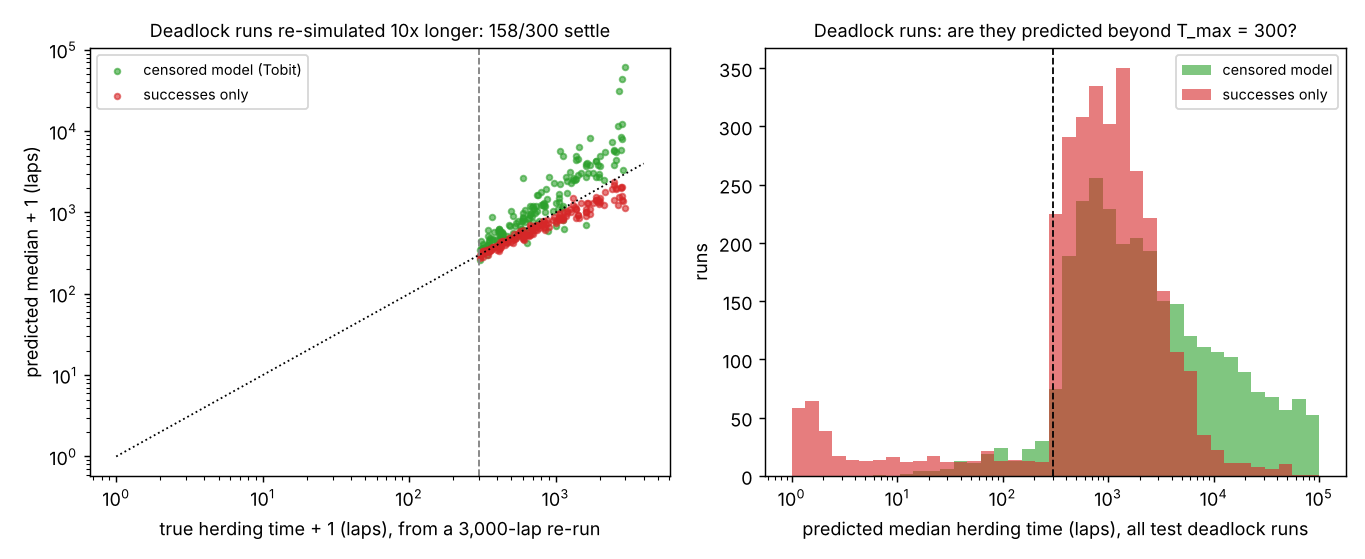
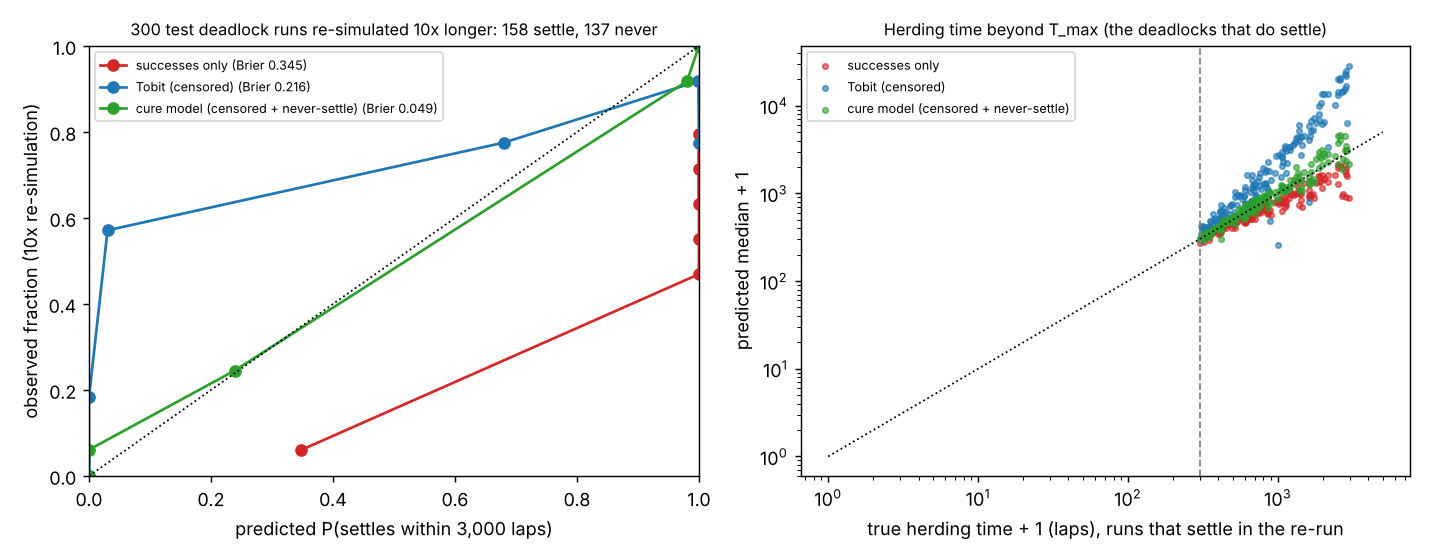
Censored herding time: kernel mixture-cure model separates slow from stuck herds (AUC 0.98 on 10x re-simulation)
Claude-Session: https://claude.ai/code/session_01GFa46iTYsWFUdyGmf1m55y

diff --git a/results/censored/README.md b/results/censored/README.md
@@ -1,0 +1,43 @@
+# Herding time with censoring: slow vs stuck herds
+
+Code: `models/censored_time.py`. Numbers [measured]: `metrics.json`. Figure: `censored.png`. Re-simulations: `resim.npz`.
+
+## Problem
+Deadlock runs were stopped at T_max = 300 laps; we only know "time > 300" (right-censored). Dropping them (Phase 3)
+biases the time model; and "deadlock" may hide two kinds of runs: slow ones and ones that never settle.
+
+## Models (all share one kernel function class: random Fourier features (1,000) of the Phase 3 GP kernel; MAP fit)
+- **successes only**: log-normal time on settled runs (deadlocks dropped).
+- **Tobit**: log-normal time; deadlocks contribute P(time > 300).
+- **mixture cure** (ours, kernel version of Farewell 1982): P(the run ever settles) = sigmoid(g(x)), a kernel logistic
+  model; if it settles, log-normal time. Deadlocks contribute (1 - pi) + pi * P(time > 300).
+Prior scale chosen on a validation split (for Tobit and cure the best was the largest value tried, x30).
+
+## Test set (settled + deadlock test runs of the arXiv law)
+
+| | successes only | Tobit | **cure** |
+|---|---|---|---|
+| test log-likelihood per run (higher better) | -24.05 | -0.27 | **+0.37** |
+| time-dependent concordance (Antolini) | 0.943 | 0.979 | **0.992** |
+| settled runs: median error (laps) | 0.72 | 1.95 | **0.69** |
+| settled runs: 90 % band coverage | 0.917 | 0.947 | 0.916 |
+| deadlock runs: mean P(time > 300) (should be high) | 0.83 | 0.95 | **0.98** |
+
+## The real check: 300 test deadlock runs re-simulated 10x longer (3,000 laps)
+Result: 158 settle, 137 still do not settle, 5 lose an evader. None of this is in the training data (which stops at 300).
+
+| | Brier, "settles by 3,000" (lower better) | AUC | mean predicted P (observed 0.536) | settled: median ratio error | 90 % band coverage |
+|---|---|---|---|---|---|
+| successes only | 0.345 | 0.739 | 0.889 | x1.19 | 0.58 |
+| Tobit | 0.216 | 0.853 | 0.450 | x1.77 | 0.49 |
+| **cure** | **0.049** | **0.984** | **0.535** | **x1.09** | **0.83** |
+
+Plain words:
+- "Deadlock" is two things: about half of the stalled runs are only slow, the other half never settle.
+- The cure model tells them apart from the START alone (AUC 0.98), and its average prediction (53.5 %) matches the
+  observed rate (53.6 %). It also predicts how long the slow ones take (typical error 9 %), beyond the training horizon.
+- Dropping the deadlocks (successes only) makes the model badly over-confident that every run finishes.
+- Tobit (one noise level for everything) must inflate its noise to explain the stuck runs, so its times get worse.
+
+Limits: optimiser stopped at 3,000 iterations for some fits; the prior scale is at the edge of the grid (x30);
+"never settles" means "not within 3,000 laps".
